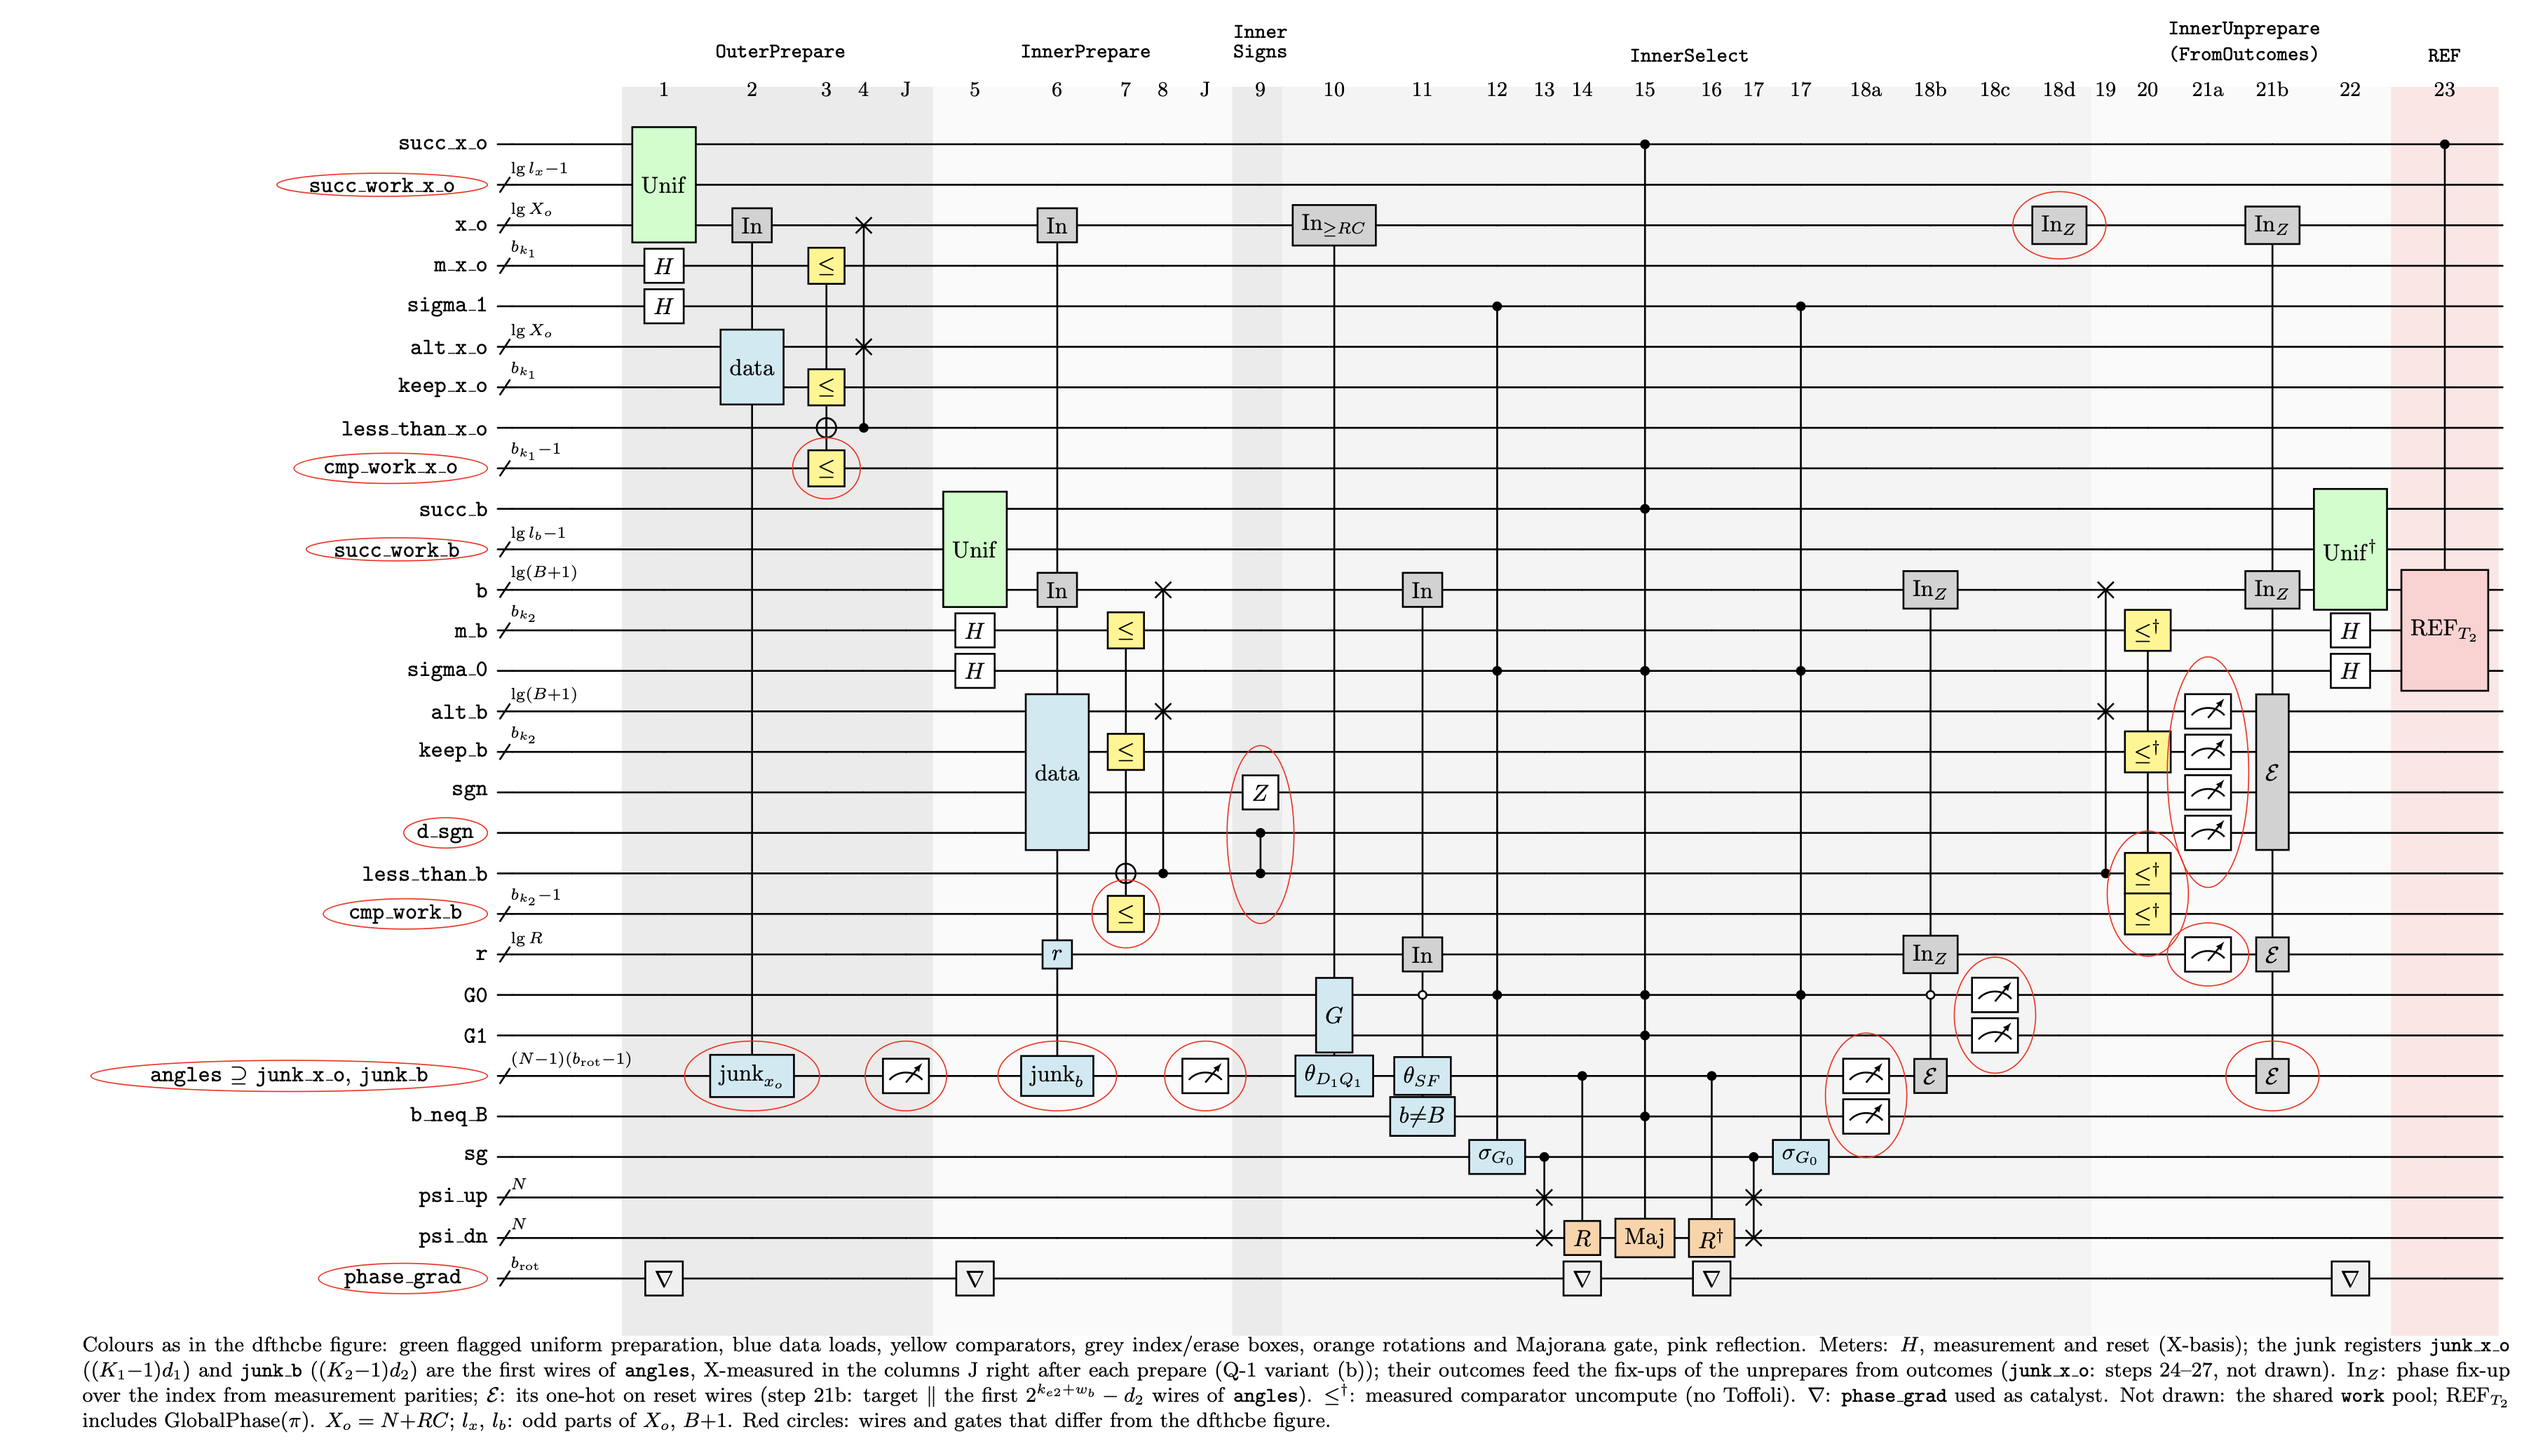
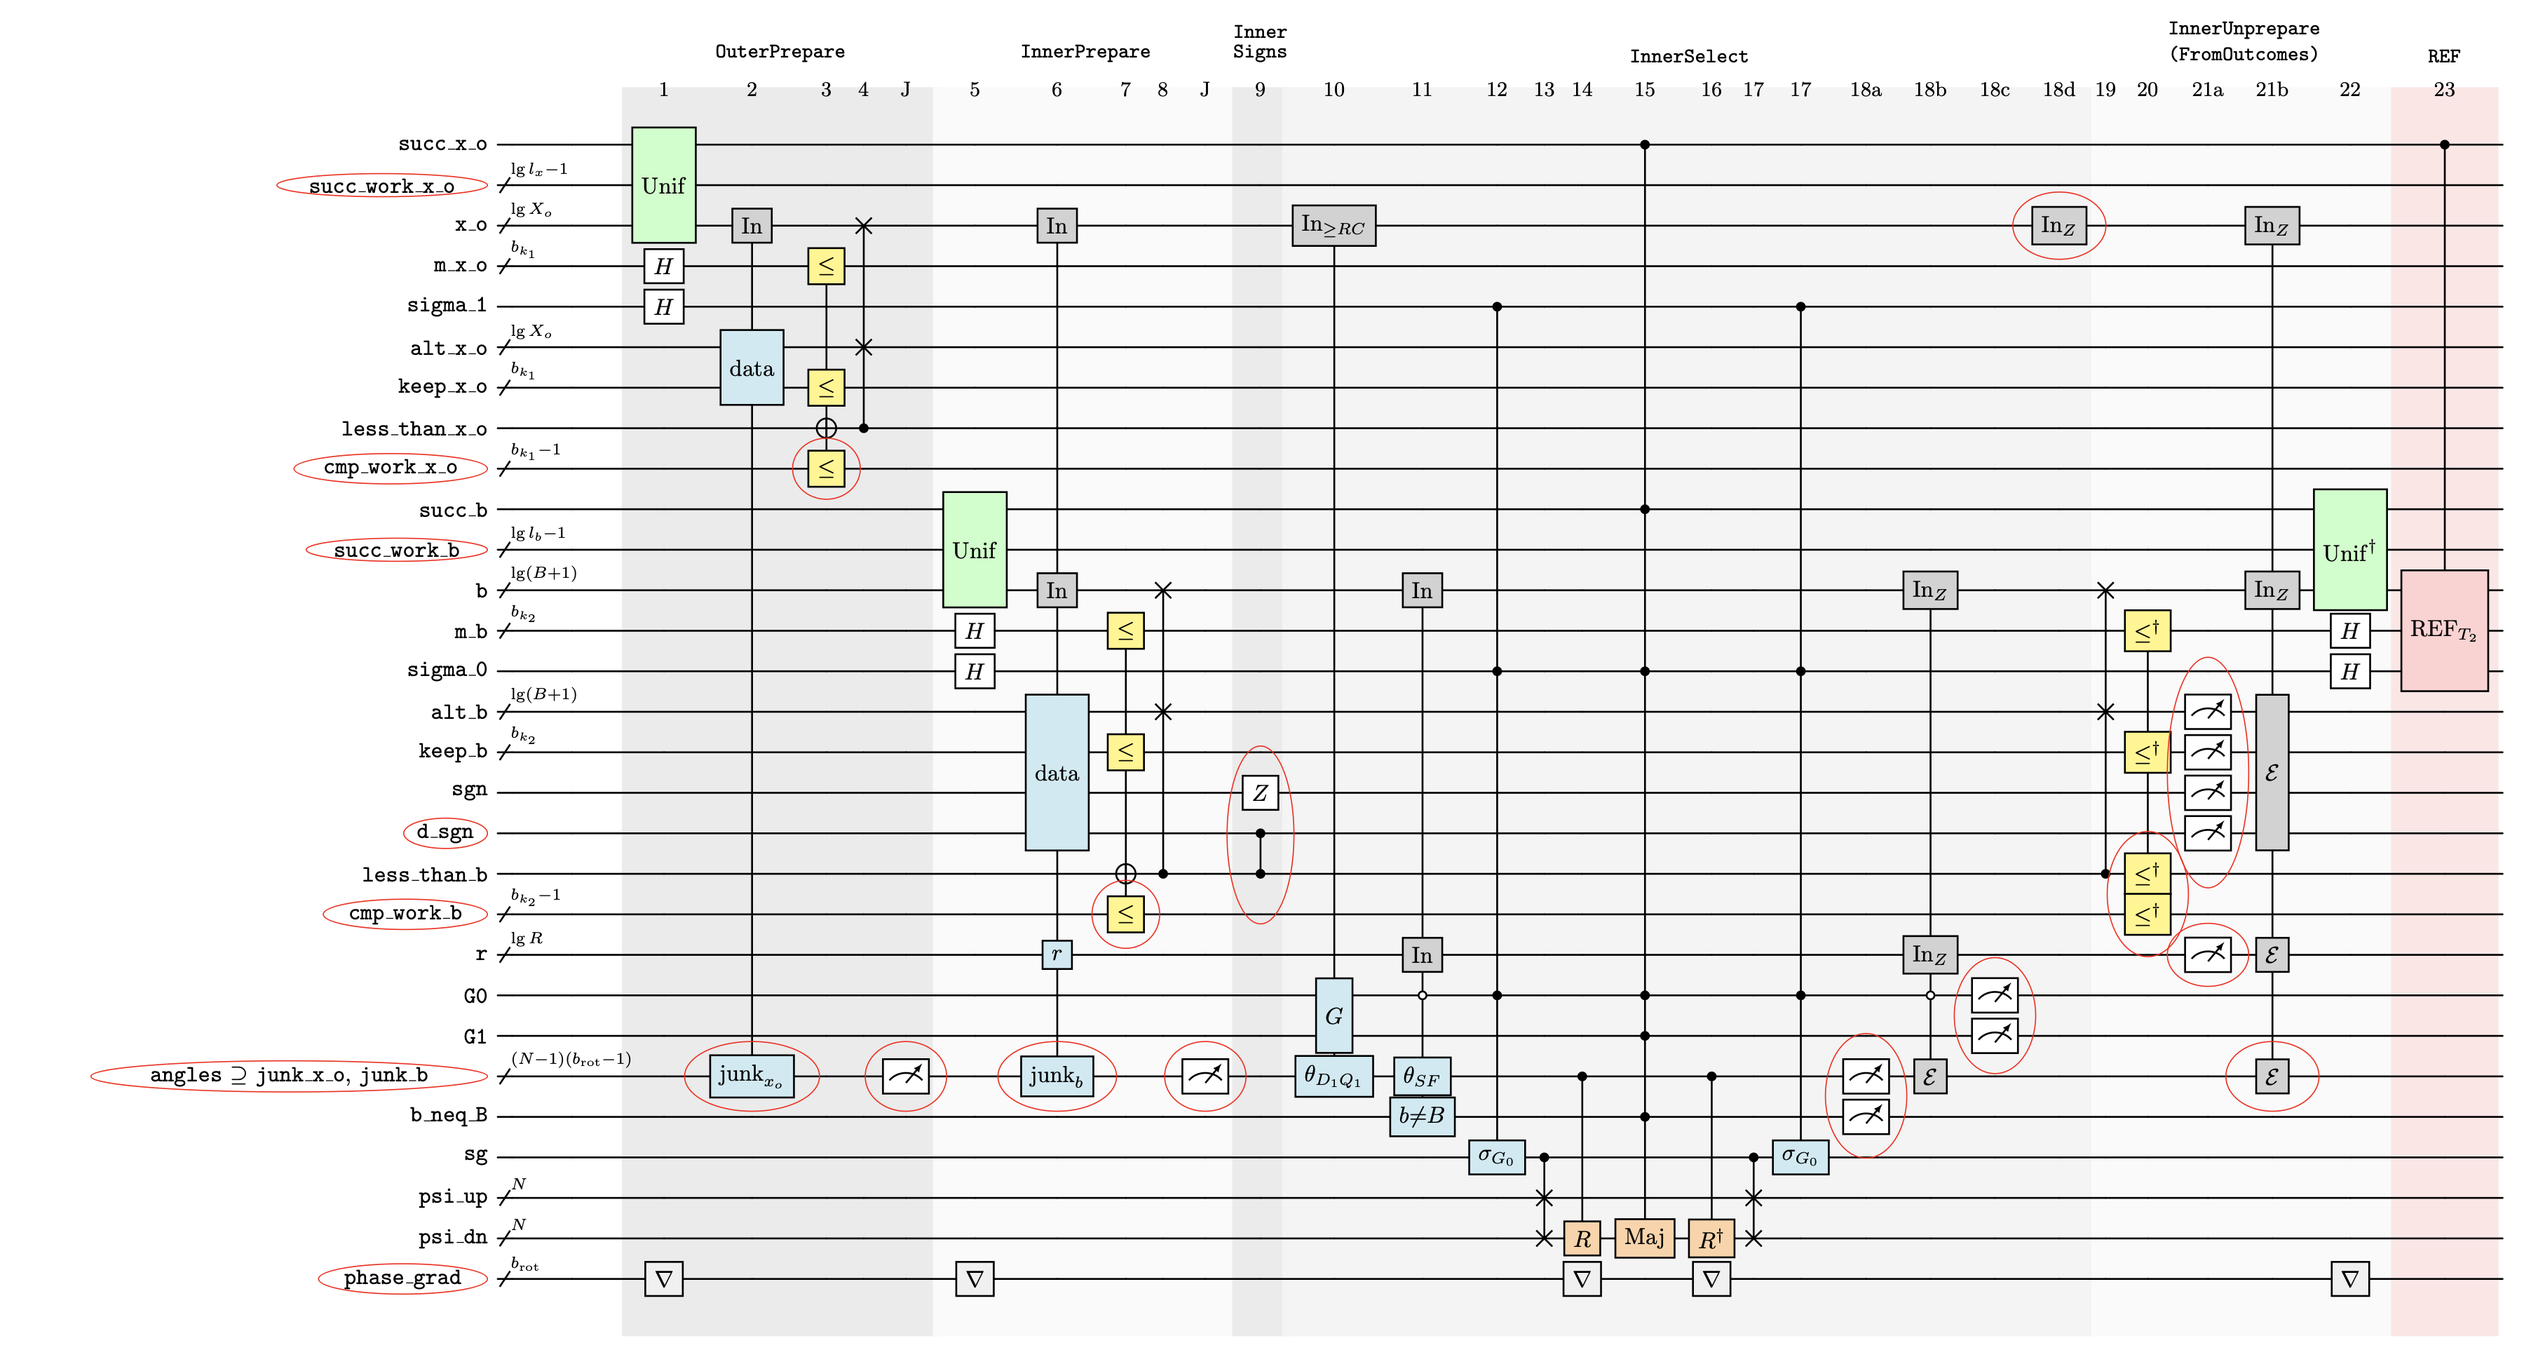
README: circuit caption as text instead of inside the figure

diff --git a/docs/figures/walk_circuit.tex b/docs/figures/walk_circuit.tex
@@ -50,20 +50,5 @@
 \lstick{\usebox{\ringphasegrad}} & \qwbundle{b_{\mathrm{rot}}} &  & \gate[1,style={fill=gray!12}]{\nabla} &  &  &  &  & \gate[1,style={fill=gray!12}]{\nabla} &  &  &  &  &  &  &  &  &  & \gate[1,style={fill=gray!12}]{\nabla} &  & \gate[1,style={fill=gray!12}]{\nabla} &  &  &  &  &  &  &  &  &  &  & \gate[1,style={fill=gray!12}]{\nabla} &  &  \\
 \setwiretype{n} & & \push{\hspace{1.4cm}} & & & & & & & & & & & & & & & & & & & & & & & & & & & & & & &
 \end{quantikz}}
-\begin{tabular}{@{}l@{}}
-\usebox{\circbox}\\[2pt]
-\parbox{\wd\circbox}{\small
-Colours as in the dfthcbe figure: green flagged uniform preparation, blue data loads, yellow
-comparators, grey index/erase boxes, orange rotations and Majorana gate, pink reflection.
-Meters: $H$, measurement and reset (X-basis); the junk registers \texttt{junk\_x\_o}
-($(K_1{-}1)d_1$) and \texttt{junk\_b} ($(K_2{-}1)d_2$) are the first wires of \texttt{angles},
-X-measured in the columns J right after each prepare (Q-1 variant (b)); their outcomes feed
-the fix-ups of the unprepares from outcomes (\texttt{junk\_x\_o}: steps 24--27, not drawn).
-$\mathrm{In}_Z$: phase fix-up over the index from measurement parities; $\mathcal{E}$: its
-one-hot on reset wires (step 21b: target $\|$ the first $2^{k_{e2}+w_b}-d_2$ wires of
-\texttt{angles}). $\le^{\dagger}$: measured comparator uncompute (no Toffoli).
-$\nabla$: \texttt{phase\_grad} used as catalyst. Not drawn: the shared \texttt{work} pool;
-$\mathrm{REF}_{T_2}$ includes $\mathrm{GlobalPhase}(\pi)$. $X_o = N{+}RC$; $l_x$, $l_b$:
-odd parts of $X_o$, $B{+}1$. Red circles: wires and gates that differ from the dfthcbe figure.}
-\end{tabular}
+\usebox{\circbox}
 \end{document}

diff --git a/docs/figures/walk_circuit_gen.py b/docs/figures/walk_circuit_gen.py
@@ -218,22 +218,7 @@ PREAMBLE = r"""\documentclass[border=6pt]{standalone}
 """
 
 POSTAMBLE = r"""\end{quantikz}}
-\begin{tabular}{@{}l@{}}
-\usebox{\circbox}\\[2pt]
-\parbox{\wd\circbox}{\small
-Colours as in the dfthcbe figure: green flagged uniform preparation, blue data loads, yellow
-comparators, grey index/erase boxes, orange rotations and Majorana gate, pink reflection.
-Meters: $H$, measurement and reset (X-basis); the junk registers \texttt{junk\_x\_o}
-($(K_1{-}1)d_1$) and \texttt{junk\_b} ($(K_2{-}1)d_2$) are the first wires of \texttt{angles},
-X-measured in the columns J right after each prepare (Q-1 variant (b)); their outcomes feed
-the fix-ups of the unprepares from outcomes (\texttt{junk\_x\_o}: steps 24--27, not drawn).
-$\mathrm{In}_Z$: phase fix-up over the index from measurement parities; $\mathcal{E}$: its
-one-hot on reset wires (step 21b: target $\|$ the first $2^{k_{e2}+w_b}-d_2$ wires of
-\texttt{angles}). $\le^{\dagger}$: measured comparator uncompute (no Toffoli).
-$\nabla$: \texttt{phase\_grad} used as catalyst. Not drawn: the shared \texttt{work} pool;
-$\mathrm{REF}_{T_2}$ includes $\mathrm{GlobalPhase}(\pi)$. $X_o = N{+}RC$; $l_x$, $l_b$:
-odd parts of $X_o$, $B{+}1$. Red circles: wires and gates that differ from the dfthcbe figure.}
-\end{tabular}
+\usebox{\circbox}
 \end{document}
 """
 

diff --git a/README.md b/README.md
@@ -37,6 +37,26 @@ explains each difference step by step.
 
 ![DFTHC block encoding, steps 1-23](docs/figures/walk_circuit.png)
 
+How to read the figure:
+
+- **Colours** are as in the dfthcbe figure: green is the flagged uniform preparation, blue the
+  data loads, yellow the comparators, grey the index and erase boxes, orange the rotations and the
+  Majorana gate, and pink the reflection.
+- **Meters** are an H followed by a measurement and reset, i.e. an X-basis measurement.
+- **Junk.** The junk registers `junk_x_o` ((K<sub>1</sub>−1)d<sub>1</sub> wires) and `junk_b`
+  ((K<sub>2</sub>−1)d<sub>2</sub> wires) are the first wires of `angles`. They are X-measured in
+  the columns J, right after each prepare (Q-1 variant (b)). Their outcomes feed the fix-ups of the
+  unprepares from outcomes; for `junk_x_o` that is steps 24-27, which are not drawn.
+- **In<sub>Z</sub>** is a phase fix-up over the index, computed from measurement parities.
+  **ℰ** is its one-hot register on reset wires. In step 21b that is the target together with the
+  first 2<sup>k<sub>e2</sub>+w<sub>b</sub></sup> − d<sub>2</sub> wires of `angles`.
+- **≤<sup>†</sup>** is a measured comparator uncompute, which costs no Toffoli.
+- **∇** marks `phase_grad` used as a catalyst.
+- **Not drawn:** the shared `work` pool, and the `GlobalPhase(π)` inside REF<sub>T2</sub>.
+- **Symbols:** X<sub>o</sub> = N + RC; l<sub>x</sub> and l<sub>b</sub> are the odd parts of
+  X<sub>o</sub> and B + 1.
+- **Red circles** mark the wires and gates that differ from the dfthcbe figure.
+
 ## Quick start
 
 ```bash
